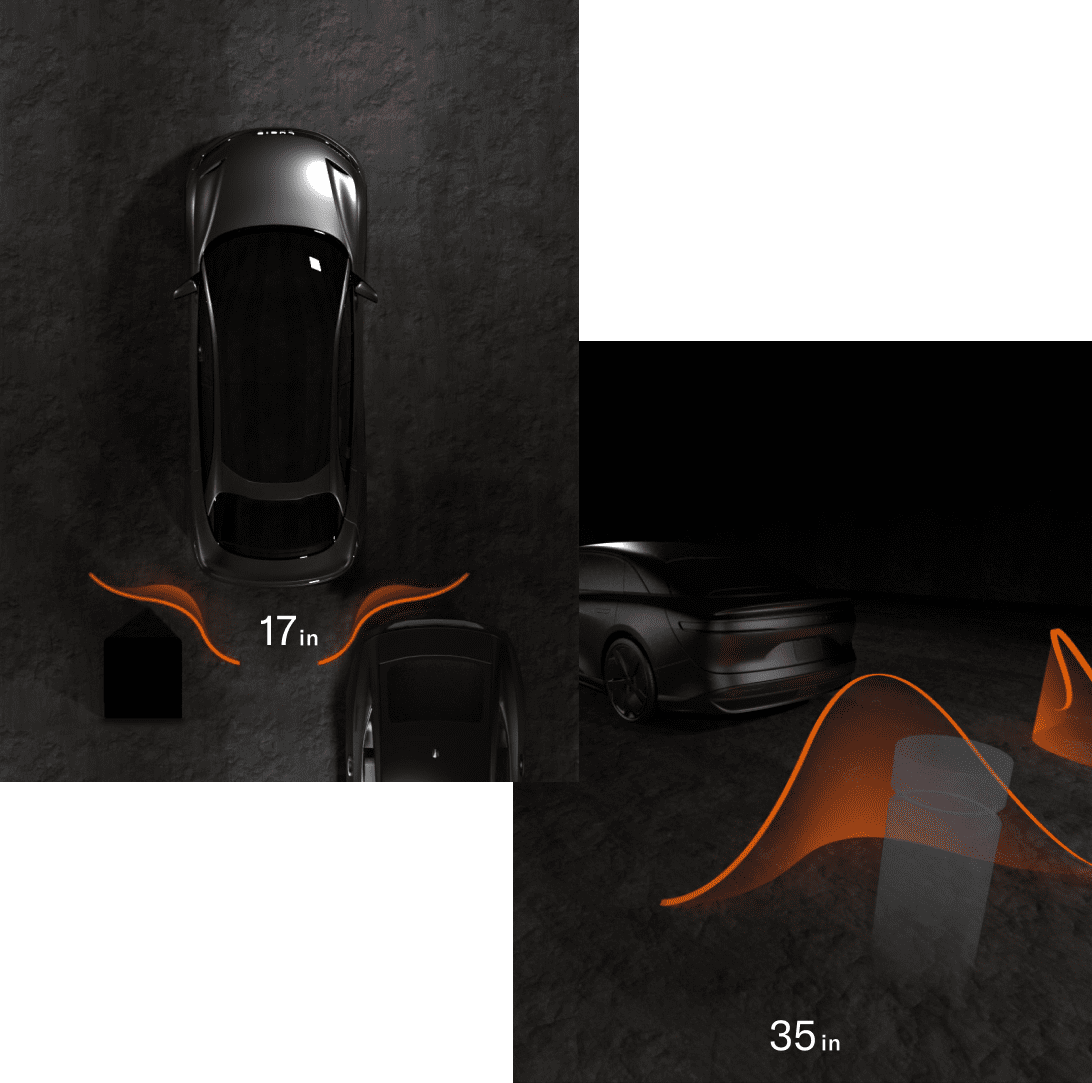
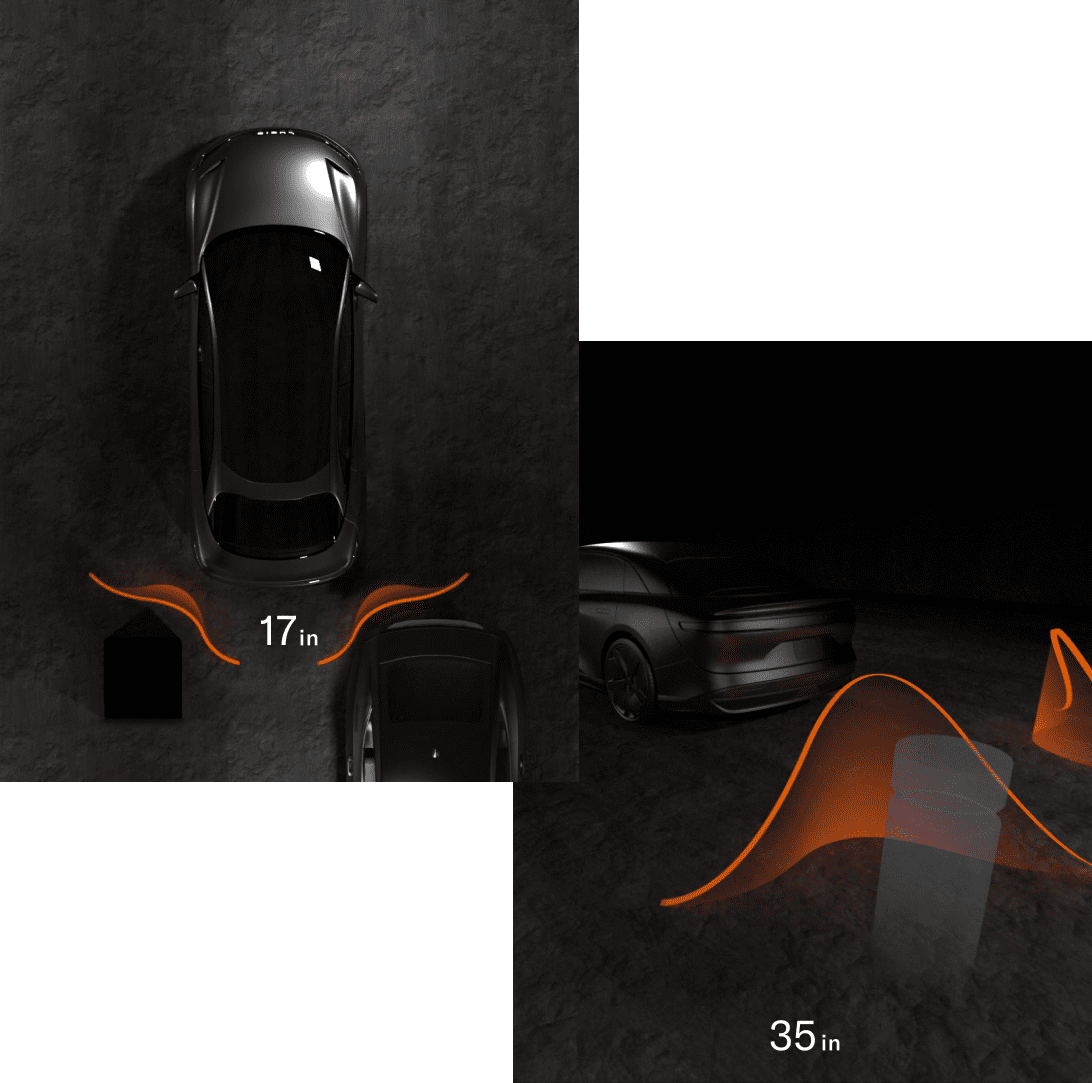
imporved gulp to carry gifs, up to bringing it to life.

diff --git a/lucid-motors/index.html b/lucid-motors/index.html
@@ -152,15 +152,15 @@
 
                 <source
                   media="(min-width: 721px)"
-                  srcset="../resources/images/luc-3d-ml@2x.png 2x,
-                  ../resources/images/luc-3d-ml.png 1x"/>
+                  srcset="../resources/images/luc-3d_ml@2x.png 2x,
+                  ../resources/images/luc-3d_ml.png 1x"/>
 
                 <source
                   media="(max-width: 720px)"
-                  srcset="../resources/images/luc-3d-s@2x.png 2x,
-                  ../resources/images/luc-3d-s.png 1x"/>
+                  srcset="../resources/images/luc-3d_s@2x.png 2x,
+                  ../resources/images/luc-3d_s.png 1x"/>
 
-                <img src="../resources/images/luc-3d-ml.png" alt="3D renders of park distance warning system"/>
+                <img src="../resources/images/luc-3d_ml.png" alt="3D renders of park distance warning system"/>
              </picture>
 
              <div class="separated-spacer"></div>
@@ -182,20 +182,20 @@
 
                   <source
                      media="(min-width: 1100px)"
-                     srcset="../resources/images/luc-warning-l@2x.png 2x,
-                     ../resources/images/luc-warning-l.png 1x"/>
+                     srcset="../resources/images/luc-warning_l@2x.png 2x,
+                     ../resources/images/luc-warning_l.png 1x"/>
 
                   <source
                      media="(min-width: 721px)"
-                     srcset="../resources/images/luc-warning-m@2x.png 2x,
-                     ../resources/images/luc-warning-m.png 1x"/>
+                     srcset="../resources/images/luc-warning_m@2x.png 2x,
+                     ../resources/images/luc-warning_m.png 1x"/>
 
                   <source
                      media="(max-width: 720px)"
-                     srcset="../resources/images/luc-warning-s@2x.png 2x,
-                     ../resources/images/luc-warning-s.png 1x"/>
+                     srcset="../resources/images/luc-warning_s@2x.png 2x,
+                     ../resources/images/luc-warning_s.png 1x"/>
 
-                  <img src="../resources/images/luc-warning-l.png" alt="Warning levels diagram"/>
+                  <img src="../resources/images/luc-warning_l.png" alt="Warning levels diagram"/>
                </picture>
 
               <div class="separated-spacer"></div>
@@ -211,7 +211,90 @@
                   </p>
                </div>
 
+               <div class="connected-spacer"></div>
 
+               <!-- case-image -->
+               <picture class="case-image">
+
+                  <source
+                    media="(min-width: 1100px)"
+                    srcset="../resources/images/luc-3d-2d_l.gif"/>
+
+                  <source
+                    media="(min-width: 721px)"
+                    srcset="../resources/images/luc-3d-2d_m.gif"/>
+
+                  <source
+                    media="(max-width: 720px)"
+                    srcset="../resources/images/luc-3d-2d_s.gif"/>
+
+                  <img src="../resources/images/luc-3d-2d_m.gif" alt="Technical diagram showing 3D to 2D transition"/>
+               </picture>
+
+               <div class="separated-spacer"></div>
+
+
+
+               <!-- content-text -->
+               <div class="content-text">
+                  <p class="label">prototyping &#38; motion</p>
+                  <h4 class="h4-sans">Elegant urgency</h4>
+                  <p class="body-loose">
+                  The waves needed to appear with authority (as a warning system should), but still feel ‘Lucid’. To achieve this I combined an explosive beginning animation (the graphic is 95% complete at 500ms) with a really long ease.
+                  </p>
+               </div>
+
+               <!-- case-image: animated wave -->
+               <picture class="case-image">
+
+                  <source
+                    media="(min-width: 1100px)"
+                    srcset="../resources/images/luc-motion_l.gif"/>
+
+                  <source
+                    media="(min-width: 721px)"
+                    srcset="../resources/images/luc-motion_m.gif"/>
+
+                  <source
+                    media="(max-width: 720px)"
+                    srcset="../resources/images/luc-motion_s.gif"/>
+
+                  <img src="../resources/images/luc-motion_m.gif" alt="wave animation sequence"/>
+               </picture>
+
+               <!-- case-image: animated wave - stages -->
+               <picture class="case-image">
+
+                  <source
+                     media="(min-width: 1100px)"
+                     srcset="../resources/images/luc-motion-stages_l@2x.png 2x,
+                     ../resources/images/luc-motion-stages_l.png 1x"/>
+
+                  <source
+                     media="(min-width: 721px)"
+                     srcset="../resources/images/luc-motion-stages_m@2x.png 2x,
+                     ../resources/images/luc-motion-stages_m.png 1x"/>
+
+                  <source
+                     media="(max-width: 720px)"
+                     srcset="../resources/images/luc-motion-stages_s@2x.png 2x,
+                     ../resources/images/luc-motion-stages_s.png 1x"/>
+
+                  <img src="../resources/images/luc-motion-stages_l.png" alt="Warning levels diagram"/>
+               </picture>
+
+               <div class="separated-spacer"></div>
+
+
+
+               <!-- content-text -->
+               <div class="content-text">
+                  <p class="label">prototyping &#38; motion</p>
+                  <h4 class="h4-sans">Bringing it to life</h4>
+                  <p class="body-loose">
+                  Collaborating with extrememly talented 3D artist Ray Chang we built a 3D rig that could simulate the warning system logic. Using these graphics I built protoypes to communicate the idea internally and refine the behaviour in Lucid’s test environment.
+                  </p>
+               </div>
 
 
 

diff --git a/gulpfile.js b/gulpfile.js
@@ -26,17 +26,6 @@ function prefix(cb) {
 }
 exports.prefix = prefix
 
-// Clean
-// function clean(cb) {
-//   return src('./**/*.html')
-//       .pipe(htmlmin({ collapseWhitespace: true
-//       }))
-//     .pipe(dest('public'));
-//
-//   cb();
-// }
-
-// decomment
 function clean(cb) {
   return src('./**/*.html')
   .pipe(removeHtmlComments())
@@ -61,7 +50,7 @@ function compressChangedPng(cb) {
 }
 
 function compressChangedImg(cb) {
-   return src('../_images-raw/*.{svg,jpg,jpeg}', { since: lastRun(compressChangedImg) })
+   return src('../_images-raw/*.{svg,jpg,jpeg,gif}', { since: lastRun(compressChangedImg) })
      .pipe(imagemin([
       imagemin.mozjpeg({quality: 75, progressive: true}),
       imagemin.svgo({
@@ -82,7 +71,7 @@ function watchPng() {
 };
 
 function watchImg() {
-  watch('../_images-raw/*.{svg,jpg,jpeg}', compressChangedImg);
+  watch('../_images-raw/*.{svg,jpg,jpeg,gif}', compressChangedImg);
 };
 
 exports.watchPng = watchPng
